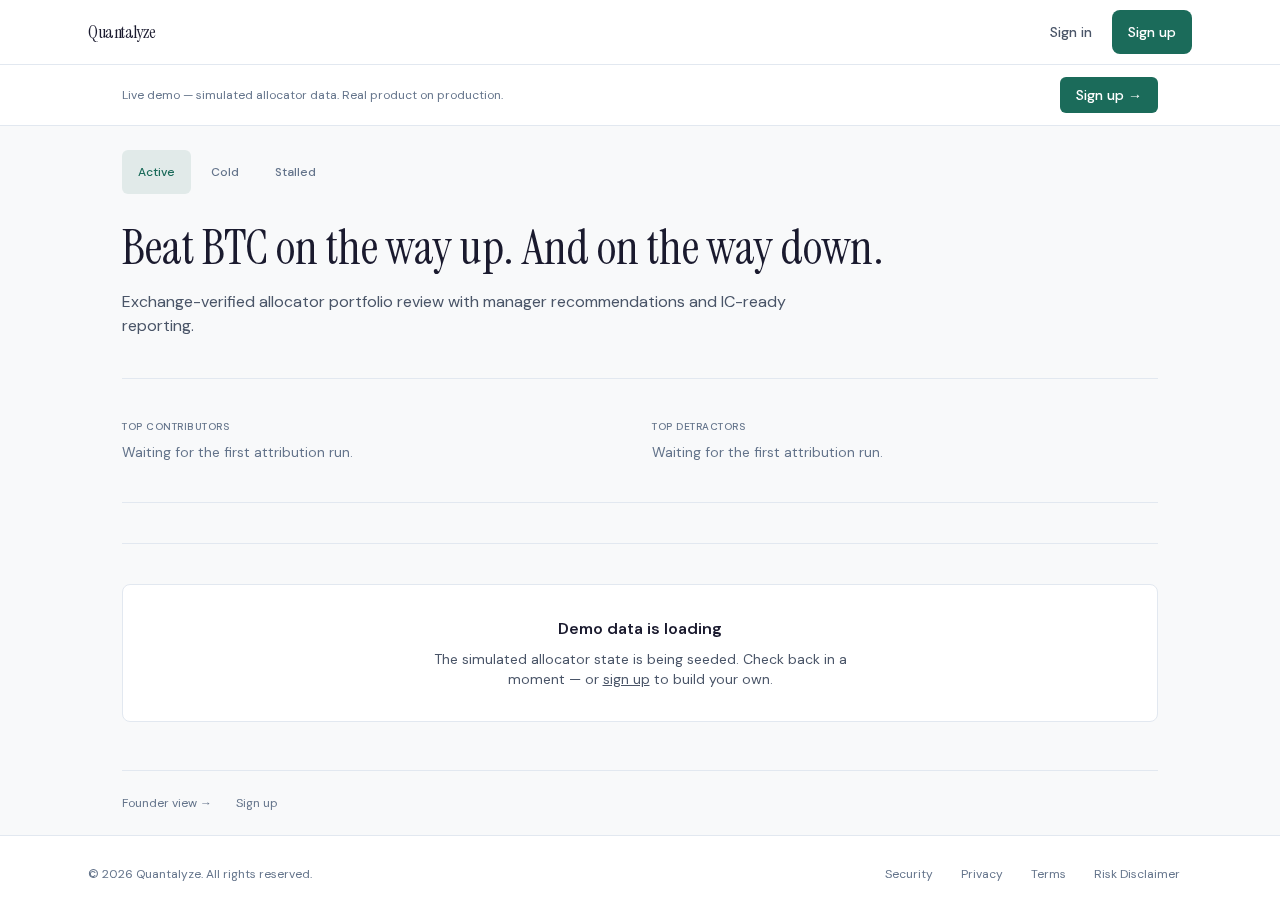
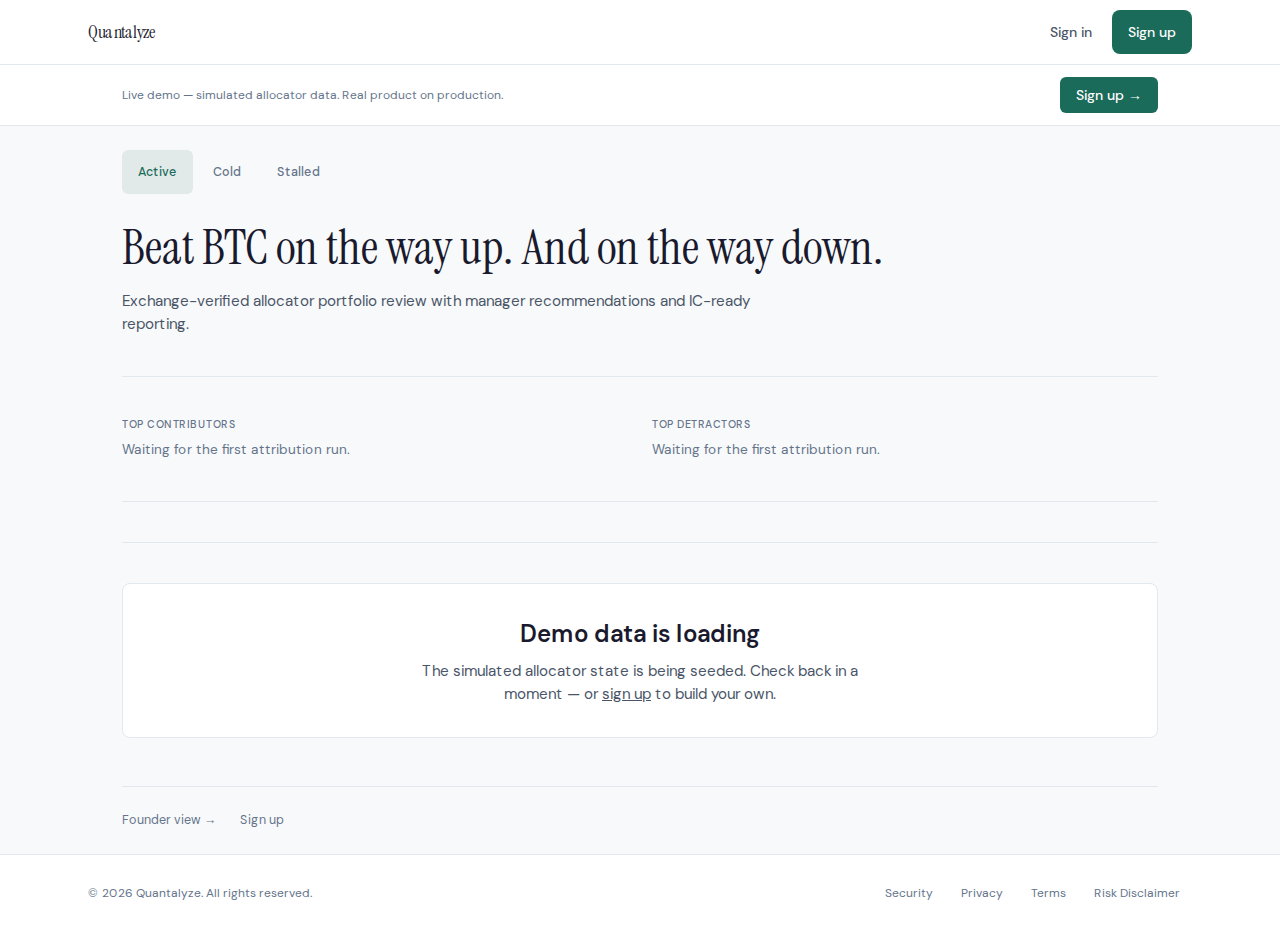
test(e2e): commit reviewed /demo screenshot goldens — demo-375 + demo-1280 (v0.35.0.23)
Re-baked by the workflow_dispatch bake_demo_screenshots=true run on main @
9a34d46c (the v0.35.0.22 mechanism's first use). Each was surfaced for per-shot
human review before commit (the locked "never blind --update-snapshots" gate):
demo-375 (mobile) now shows the "Live demo …" notice wrapping to two lines
instead of ellipsis-clipping (the v0.35.0.20 truncation fix); demo-1280
(desktop) settles the Phase-53 fluid-type height drift. Both verified as real
placeholder-env renders, not blank/error pages. demo-768 came back
byte-identical to the committed baseline → left untouched.

Clears the perpetual "2 failed" in the advisory step-9 e2e run (confirmed
failing on main @ d8c61f5f): demo-screenshot.spec.ts now matches at all three
viewports, so a NEW demo-screenshot regression is no longer masked.

Claude-Session: https://claude.ai/code/session_01GT7U2ivArKxJiBdcnMZDgj

diff --git a/CHANGELOG.md b/CHANGELOG.md
@@ -1,5 +1,11 @@
 # Changelog
 
+## [0.35.0.23] - 2026-06-30
+### Fixed — committed the re-baked /demo screenshot baselines (demo-375 + demo-1280)
+Committed the two refreshed `chromium-linux` baselines produced by the `workflow_dispatch bake_demo_screenshots=true` run on `main` @ `9a34d46c` (the v0.35.0.22 mechanism's first use). Each was surfaced for per-shot human review before commit (the locked "never blind `--update-snapshots`" gate): **demo-375** now shows the "Live demo …" notice wrapping to two lines instead of ellipsis-clipping (the v0.35.0.20 truncation fix), and **demo-1280** settles the Phase-53 fluid-type height drift — both verified as real placeholder-env renders, not blank/error pages. `demo-768` came back byte-identical to the committed baseline, so it is left untouched.
+
+This clears the perpetual `2 failed` in the advisory step-9 e2e run (confirmed failing on `main` @ `d8c61f5f`): `demo-screenshot.spec.ts` now matches at all three viewports, so a *new* demo-screenshot regression is no longer masked behind the stale-baseline noise.
+
 ## [0.35.0.22] - 2026-06-30
 ### Added — `bake_demo_screenshots` dispatch input (re-bake the stale /demo baselines)
 The `/demo` screenshot baselines (`demo-375`, `demo-1280`) have been failing the advisory step-9 e2e run since the Phase-53 fluid-type height drift and the v0.35.0.20 notice-unwrap fix (`demo-768` still passes). They are tolerated by the v0.35.0.18 `continue-on-error`, so they don't block — but a perpetual "2 failed" masks any *new* demo-screenshot regression, so the baselines need refreshing. Confirmed against live `main` @ `d8c61f5f`: the e2e job logs `2 failed` (375 + 1280), `81 passed`.